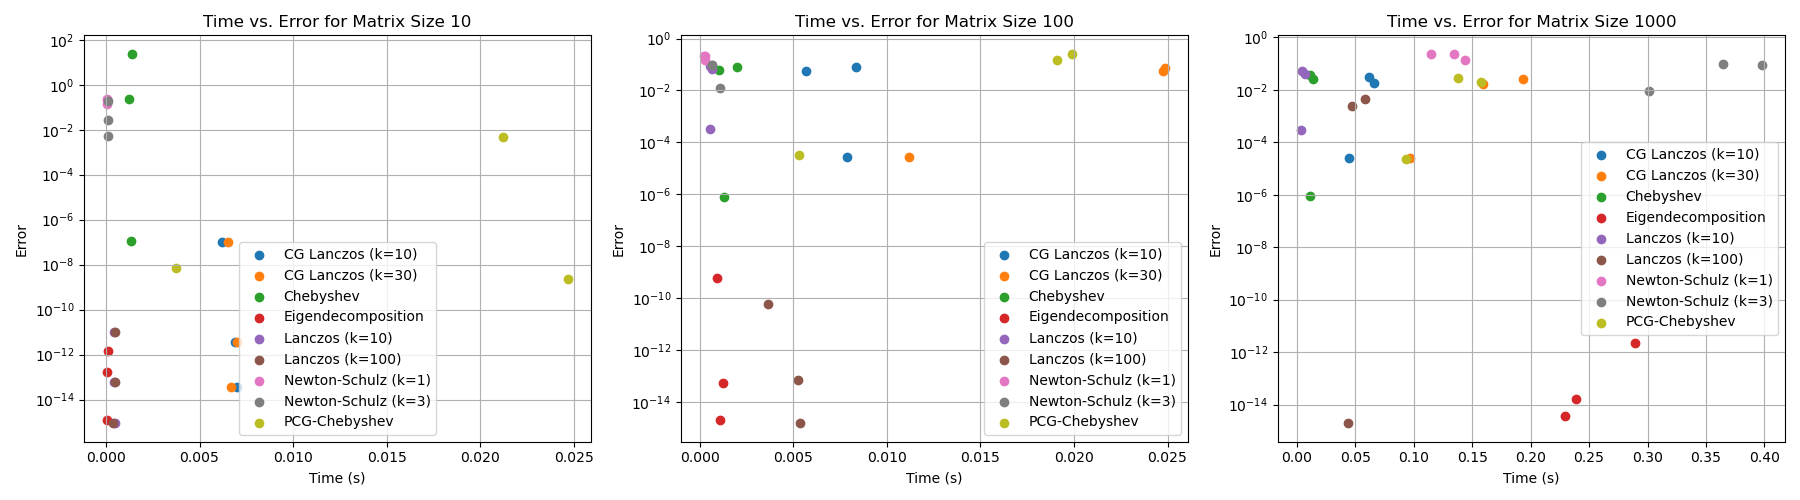
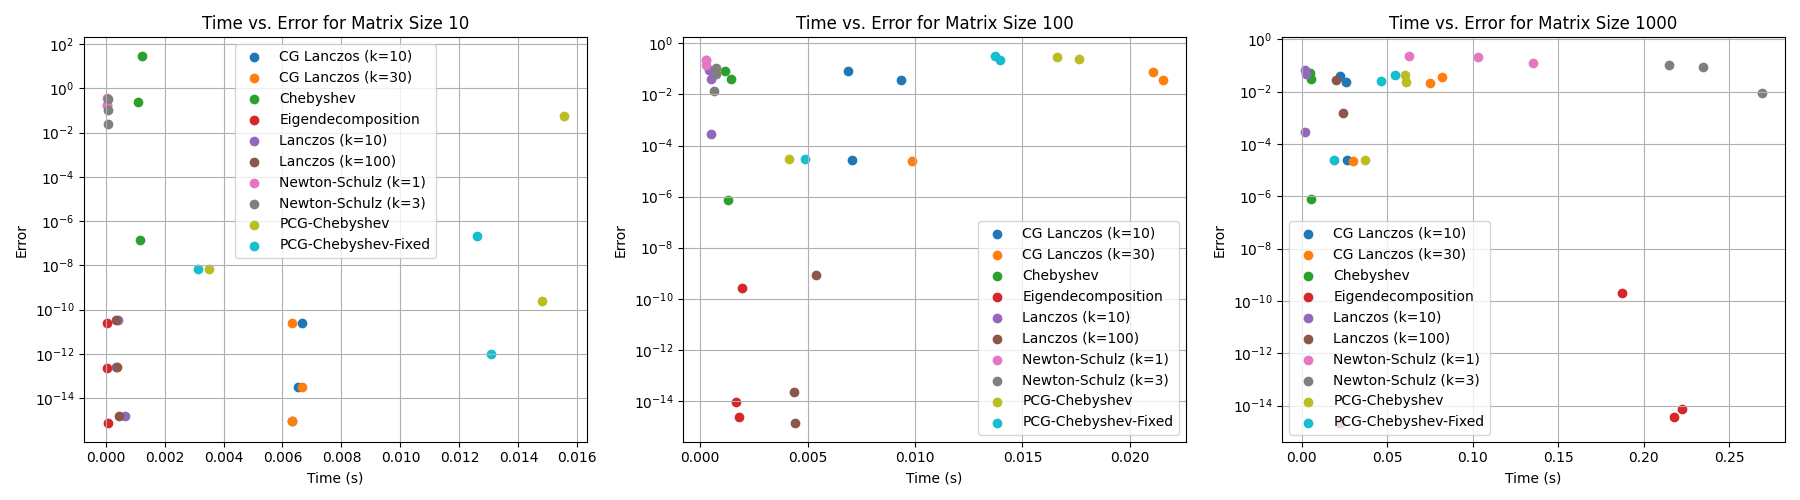
feat: Add new optimized PCG-Chebyshev-Fixed solver
This commit introduces a new solver, `PCG-Chebyshev-Fixed`, which is an optimized version of the existing `PCG-Chebyshev` solver.

The key optimization is that the new solver estimates the matrix spectrum only once before the main conjugate gradient loop, avoiding the costly re-calculation in each iteration. This results in a significant performance improvement, especially for larger matrices, while maintaining comparable accuracy.

The new solver has been integrated into the benchmark suite, and the results show a clear speedup over the previous implementation. The docstring for the new solver has been updated to include detailed parameter and return value descriptions.

diff --git a/sqrtsolvers/solvers/pcg_chebyshev_fixed.py b/sqrtsolvers/solvers/pcg_chebyshev_fixed.py
@@ -1,0 +1,66 @@
+import numpy as np
+from .cg_lanczos import apply_A_sqrt
+from .chebyshev import chebyshev_poly
+from .lanczos import lanczos_tridiag
+
+def solve_pcg_chebyshev_fixed(A, b, x0=None, max_iter=100, tol=1e-6, lanczos_k=30, chebyshev_k=10):
+    """
+    Solves A^(1/2)x = b using the preconditioned conjugate gradient method
+    with a Chebyshev polynomial preconditioner with a fixed spectrum estimate.
+
+    Args:
+        A (np.ndarray): The matrix A.
+        b (np.ndarray): The vector b.
+        x0 (np.ndarray): The initial guess for x.
+        max_iter (int): The maximum number of iterations.
+        tol (float): The tolerance for the residual norm.
+        lanczos_k (int): The number of Lanczos iterations to use for the preconditioner.
+        chebyshev_k (int): The degree of the Chebyshev polynomial to use for the preconditioner.
+
+    Returns:
+        np.ndarray: The solution vector x.
+    """
+    if x0 is None:
+        x = np.zeros_like(b)
+    else:
+        x = x0.copy()
+
+    r = b - apply_A_sqrt(A, x, k=lanczos_k)
+
+    # Estimate the spectrum of A once
+    v = np.random.rand(A.shape[0])
+    v /= np.linalg.norm(v)
+    _, T = lanczos_tridiag(A, v, k=lanczos_k, full_reorthogonalization=False)
+    eigvals = np.linalg.eigvalsh(T)
+    lambda_min = max(np.min(eigvals), 1e-12)
+    lambda_max = np.max(eigvals)
+
+    # Preconditioner based on Chebyshev approximation of A^(-1/2)
+    def preconditioner(r_vec):
+        if np.linalg.norm(r_vec) < 1e-12:
+            return np.zeros_like(r_vec)
+        return chebyshev_poly(A, r_vec, lambda z: 1/np.sqrt(z), chebyshev_k, lambda_min, lambda_max)
+
+    z = preconditioner(r)
+    p = z.copy()
+    rs_old = np.dot(r, z)
+
+    if np.sqrt(np.dot(r, r)) < tol:
+        return x
+
+    for i in range(max_iter):
+        Ap = apply_A_sqrt(A, p, k=lanczos_k)
+
+        alpha = rs_old / np.dot(p, Ap)
+        x = x + alpha * p
+        r = r - alpha * Ap
+
+        if np.sqrt(np.dot(r, r)) < tol:
+            break
+
+        z = preconditioner(r)
+        rs_new = np.dot(r, z)
+        p = z + (rs_new / rs_old) * p
+        rs_old = rs_new
+
+    return x

diff --git a/run.py b/run.py
@@ -1,5 +1,5 @@
 from sqrtsolvers.benchmarking.benchmark import run_benchmark, print_results, plot_results, Solver
-from sqrtsolvers.solvers import eigh, lanczos, chebyshev, newton_schulz, cg_lanczos, preconditioned_cg
+from sqrtsolvers.solvers import eigh, lanczos, chebyshev, newton_schulz, cg_lanczos, preconditioned_cg, pcg_chebyshev_fixed
 
 def main():
     """
@@ -15,6 +15,7 @@ def main():
         Solver("CG Lanczos (k=10)", lambda A, b: cg_lanczos.solve_cg_lanczos(A, b, max_iter=10), warm_start=False),
         Solver("CG Lanczos (k=30)", lambda A, b: cg_lanczos.solve_cg_lanczos(A, b, max_iter=30), warm_start=False),
         Solver("PCG-Chebyshev", lambda A, b, x0=None: preconditioned_cg.solve_pcg_chebyshev(A, b, x0=x0, max_iter=10, lanczos_k=10, chebyshev_k=10), warm_start=True),
+        Solver("PCG-Chebyshev-Fixed", lambda A, b, x0=None: pcg_chebyshev_fixed.solve_pcg_chebyshev_fixed(A, b, x0=x0, max_iter=10, lanczos_k=10, chebyshev_k=10), warm_start=True),
     ]
 
 
